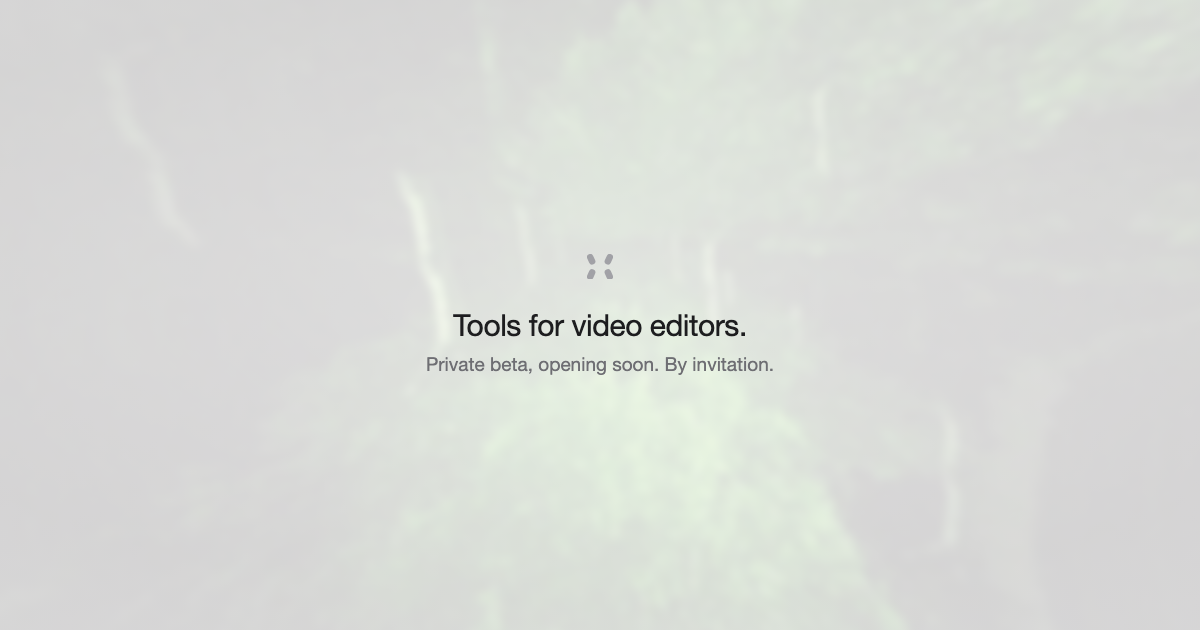
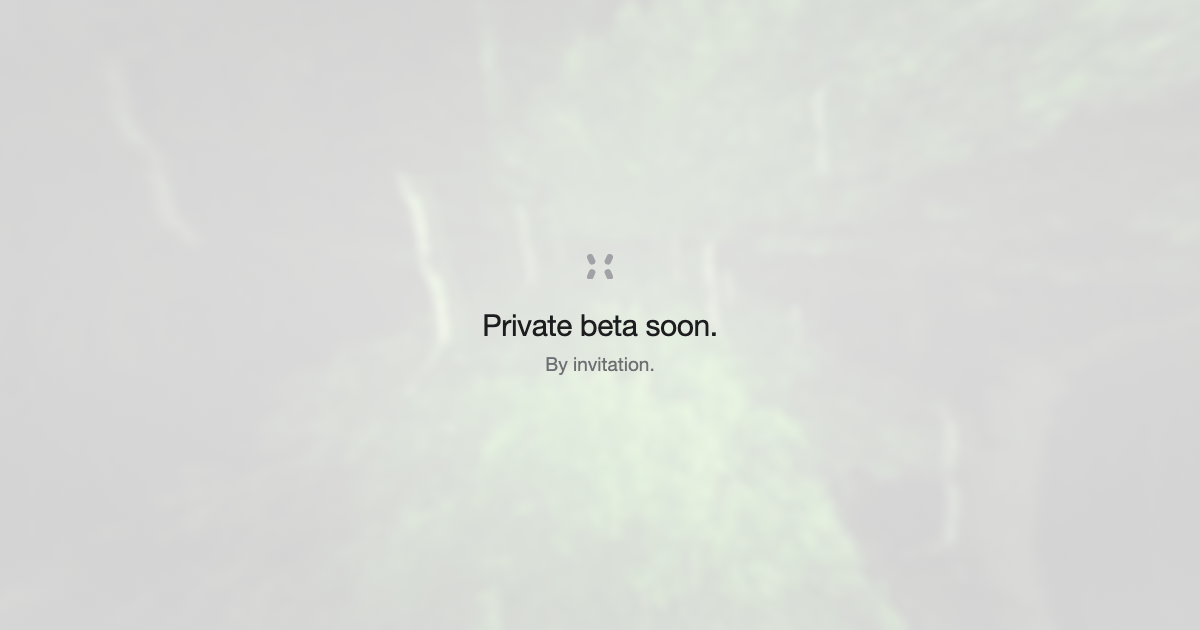
Teaser: one still frame per visit (alternates between visits), copy = Private beta soon. By invitation.

Changed region(s): [[0.37, 0.4825, 0.6167, 0.5429], [0.3392, 0.573, 0.6475, 0.6032]]

diff --git a/sycstem/index.html b/sycstem/index.html
@@ -4,21 +4,20 @@
 <meta charset="utf-8">
 <meta name="viewport" content="width=device-width, initial-scale=1, viewport-fit=cover">
 <title>SYCSTEM</title>
-<meta name="description" content="Tools for video editors. Private beta, by invitation.">
+<meta name="description" content="Private beta soon. By invitation.">
 <meta name="theme-color" content="#f5f5f6">
 <meta property="og:type" content="website">
 <meta property="og:title" content="SYCSTEM">
-<meta property="og:description" content="Tools for video editors. Private beta, by invitation.">
+<meta property="og:description" content="Private beta soon. By invitation.">
 <meta property="og:url" content="https://gualo.site/sycstem/">
 <meta property="og:image" content="https://gualo.site/sycstem/og.png">
 <meta property="og:image:width" content="1200">
 <meta property="og:image:height" content="630">
 <meta name="twitter:card" content="summary_large_image">
 <meta name="twitter:title" content="SYCSTEM">
-<meta name="twitter:description" content="Tools for video editors. Private beta, by invitation.">
+<meta name="twitter:description" content="Private beta soon. By invitation.">
 <meta name="twitter:image" content="https://gualo.site/sycstem/og.png">
 <link rel="icon" href="/sycstem/mark.svg" type="image/svg+xml">
-<link rel="preload" as="image" href="/sycstem/bg/1.webp">
 <style>
   :root {
     --ink: #1d1d1f; --grey: #6e6e73; --soft: #a1a1a6;
@@ -31,15 +30,10 @@
   body { background: #f5f5f6; color: var(--ink); font-family: var(--sans); -webkit-font-smoothing: antialiased; overflow: hidden; }
   ::selection { background: #1d1d1f; color: #fff; }
 
-  /* the footage behind the glass: full bleed, rotating, softly out of focus, washed in white.
-     The focus breathes — never quite sharp — and each frame drifts a little while it's on. */
+  /* one frame of footage behind the glass per visit (the next visit shows the next one): still, softly out of focus, washed in white */
   .reel { position: fixed; inset: -6%; z-index: 0; pointer-events: none; }
-  .reel img { position: absolute; inset: 0; width: 100%; height: 100%; object-fit: cover; opacity: 0;
-    transition: opacity 2.4s var(--ease); will-change: opacity, transform; animation: focus 9s ease-in-out infinite alternate; }
+  .reel img { position: absolute; inset: 0; width: 100%; height: 100%; object-fit: cover; opacity: 0; filter: blur(5px) saturate(.9); transition: opacity 1.6s var(--ease); }
   .reel img.on { opacity: 1; }
-  .reel img.drift { animation: focus 9s ease-in-out infinite alternate, drift 14s linear forwards; }
-  @keyframes focus { from { filter: blur(3px) saturate(.95); } to { filter: blur(7px) saturate(.8); } }
-  @keyframes drift { from { transform: scale(1.02) translate3d(0, 0, 0); } to { transform: scale(1.09) translate3d(-1.2%, -0.8%, 0); } }
   .veil { position: fixed; inset: 0; z-index: 1; pointer-events: none;
     background: radial-gradient(120% 90% at 50% 46%, rgba(255,255,255,.86) 0%, rgba(255,255,255,.82) 55%, rgba(250,250,251,.85) 100%); }
 
@@ -79,17 +73,14 @@
 </style>
 </head>
 <body>
-<div class="reel" id="reel" aria-hidden="true">
-  <img src="/sycstem/bg/1.webp" alt="" class="on drift">
-  <img src="/sycstem/bg/2.webp" alt="">
-</div>
+<div class="reel" id="reel" aria-hidden="true"><img id="frame" alt=""></div>
 <div class="veil"></div>
 
 <main>
   <div class="stage">
     <svg class="mark" viewBox="0 0 1000 991.86" fill="currentColor" role="img" aria-label="SYCSTEM"><path d="M11.27,176.80L83.75,335.66A124.94,124.94 0 0 0 311.09,231.94L238.61,73.08A124.94,124.94 0 0 0 11.27,176.80Z"/><path d="M761.39,73.08L688.91,231.94A124.94,124.94 0 0 0 916.25,335.66L988.73,176.80A124.94,124.94 0 0 0 761.39,73.08Z"/><path d="M83.75,656.20L11.27,815.06A124.94,124.94 0 0 0 238.61,918.77L311.09,759.91A124.94,124.94 0 0 0 83.75,656.20Z"/><path d="M688.91,759.91L761.39,918.77A124.94,124.94 0 0 0 988.73,815.06L916.25,656.20A124.94,124.94 0 0 0 688.91,759.91Z"/></svg>
-    <p class="what">Tools for video editors.</p>
-    <p class="when">Private beta, opening soon. By invitation.</p>
+    <p class="what">Private beta soon.</p>
+    <p class="when">By invitation.</p>
 
     <form id="f" novalidate>
       <div class="field-in">
@@ -120,13 +111,14 @@
   var q = new URLSearchParams(location.search), source = (q.get('ref') || q.get('utm_source') || (/instagram/i.test(navigator.userAgent) ? 'ig' : '') || 'direct').slice(0, 40);
   var email = '';
 
-  /* the reel: one frame at a time, crossfading every 7 s, each drifting while it's on */
-  var frames = Array.prototype.slice.call(document.querySelectorAll('#reel img')), cur = 0;
-  if (!matchMedia('(prefers-reduced-motion: reduce)').matches && frames.length > 1) setInterval(function () {
-    var a = frames[cur], b = frames[cur = (cur + 1) % frames.length];
-    b.classList.remove('drift'); void b.offsetWidth; b.classList.add('on', 'drift');
-    a.classList.remove('on');
-  }, 7000);
+  /* the frame for this visit: the same one for the whole session, the next one on the next visit */
+  var FRAMES = ['/sycstem/bg/1.webp', '/sycstem/bg/2.webp'], pick = 0;
+  try {
+    var ss = sessionStorage.getItem('syc_frame');
+    if (ss !== null) pick = +ss % FRAMES.length;
+    else { var last = localStorage.getItem('syc_frame_last'); pick = last === null ? Math.floor(Math.random() * FRAMES.length) : (+last + 1) % FRAMES.length; localStorage.setItem('syc_frame_last', pick); sessionStorage.setItem('syc_frame', pick); }
+  } catch (e) { pick = Math.floor(Math.random() * FRAMES.length); }
+  var img = $('frame'); img.onload = function () { img.classList.add('on'); }; img.src = FRAMES[pick];
 
   function post(body) {
     return fetch(API, { method: 'POST', headers: { 'Content-Type': 'application/json' }, body: JSON.stringify(body) })
